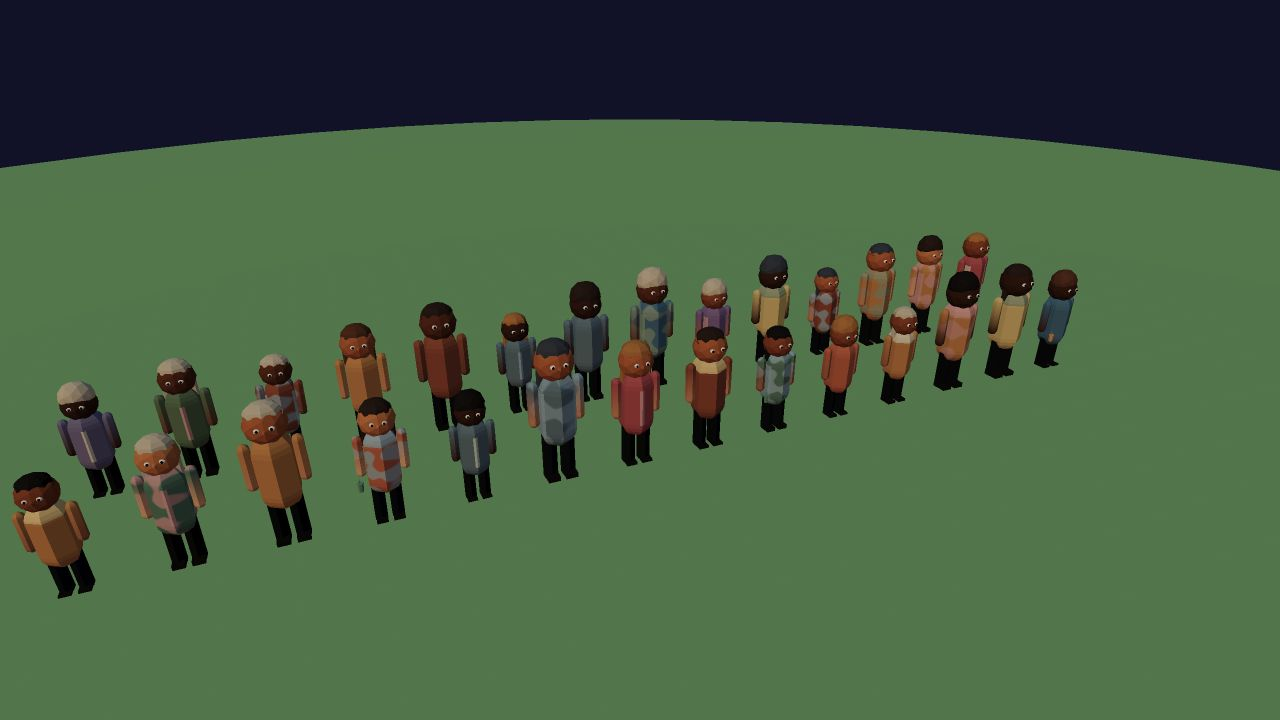
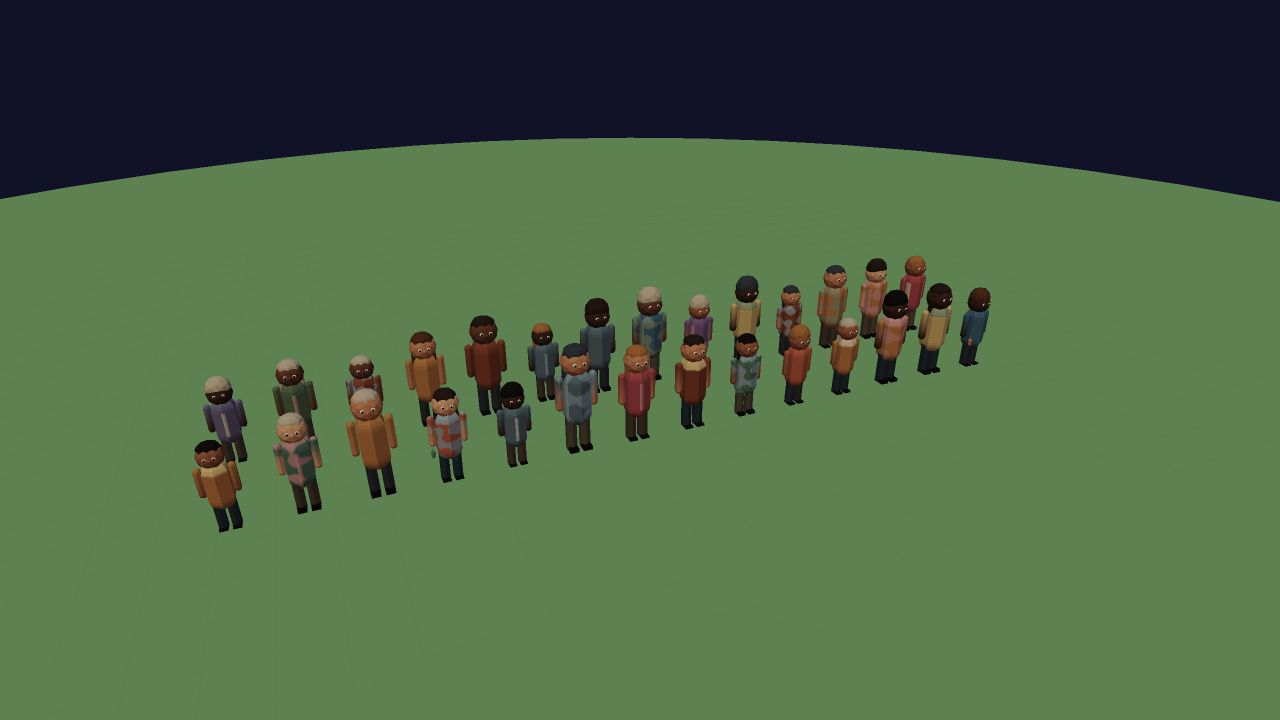
Finish crowd appearance validation and correct palette tinting

Changed region(s): [[0.0, 0.3056, 0.8438, 0.825], [0.0, 0.1528, 1.0, 0.275]]

diff --git a/src/crowd.js b/src/crowd.js
@@ -267,11 +267,11 @@ export class Crowd {
     const drinkGeo = mergeGeometrySet([cup, cupLid, straw]);
 
     // ---- Materials ----
-    const legsMat  = new THREE.MeshStandardMaterial({ color: 0x223a5c, roughness: 0.92, flatShading: true });
+    const legsMat  = new THREE.MeshStandardMaterial({ color: 0xffffff, roughness: 0.92, flatShading: true });
     const shoesMat = new THREE.MeshStandardMaterial({ color: 0x111111, roughness: 0.8,  flatShading: true });
     const bodyMat  = new THREE.MeshStandardMaterial({ roughness: 0.85, flatShading: true });
     const armsMat  = new THREE.MeshStandardMaterial({ roughness: 0.85, flatShading: true });
-    const headMat  = new THREE.MeshStandardMaterial({ color: 0xe6c098, roughness: 0.9,  flatShading: true });
+    const headMat  = new THREE.MeshStandardMaterial({ color: 0xffffff, roughness: 0.9,  flatShading: true });
     const featureMat = new THREE.MeshStandardMaterial({ color: 0x111111, roughness: 0.8 });
     const eyeMat = new THREE.MeshStandardMaterial({ color: 0xffffff, roughness: 0.9, flatShading: true, vertexColors: true });
     const cameraMat = new THREE.MeshStandardMaterial({ color: 0x17151c, roughness: 0.58, metalness: 0.2, flatShading: true });

diff --git a/sandbox.html b/sandbox.html
@@ -1682,9 +1682,14 @@ import {buildShrub} from './src/models/shrub.js';
                 entityRoot = lineup.group;
                 currentEntity = lineup;
                 updateFn = (dt) => {
+                    let poseChanged = false;
                     for (const npc of lineup.npcs) if (npc.cheerTimer > 0) {
                         npc.cheerTimer = Math.max(0, npc.cheerTimer - dt);
                         lineup._writeMatrices(npc);
+                        poseChanged = true;
+                    }
+                    if (poseChanged) for (const mesh of lineup.group.children) {
+                        if (mesh.isInstancedMesh) mesh.instanceMatrix.needsUpdate = true;
                     }
                 };
                 const cheerButton = document.createElement('button');

diff --git a/verification/crowd-appearance/check.html b/verification/crowd-appearance/check.html
@@ -21,6 +21,7 @@ try{
  }
  assert(pos,'could not find the deterministic beverage fixture position');
  const crowd=new Crowd({spawn(){}});
+ assert(crowd.headMesh.material.color.getHex()===0xffffff&&crowd.legsMesh.material.color.getHex()===0xffffff,'base materials tint the per-instance skin or pants palettes');
  const lineup=[];
  let seed=0x4a17c2;
  const next=()=>((seed=(Math.imul(seed,1664525)+1013904223)>>>0)/4294967296);

diff --git a/ROADMAP.md b/ROADMAP.md
@@ -824,7 +824,7 @@ infinite recursive tunnel, the classic "falling in" trip visual.
 - **Passenger quests.** A boarding rider sometimes has a small thought-bubble icon over their head showing where they want to go (tent, stage, food trucks, beach, hammocks, drum circle, etc. — all already in the registry). Layered indicators (compass strip, icon brightness, passenger humming, toast hints like "I can smell the food trucks!") help the player navigate. Within ~25m of the destination = thumbs-up animation + smile burst. Multi-passenger logistics emerge naturally at `MAX_PASSENGERS = 4`. Full design lives in [`.claude/passenger-quests-design.md`](.claude/passenger-quests-design.md) — destinations, signaling stack, indicator layers, toast bank, failure handling, build order, and open questions.
   - **"Gotta GO!" porta-potty emergency mission.** A special, urgent passenger-quest variant: a rider boards doing the pee-pee dance (visible squirm + a sweat-drop / "!!!" icon) and needs a ride to the **nearest porta-potty**, fast. A countdown adds light stakes — make it in time for a big relief + smile burst (and maybe a grateful honk), miss it and they bail out mortified (a flustered "fleeing" exit, small smile penalty, comedic toast). The porta-potty system already shipped (model + registry `porta_potty` entries + the door/occupied/stink machinery in [portaPotty.js](src/models/portaPotty.js) + [crowd.js](src/crowd.js)), so the destination, arrival detection, door-open-on-arrival, and "occupied, try the next one" logic are mostly reusable — this is largely the passenger-quest signaling stack plus a timer and the squirm animation. Ties the new sanitation prop into the mission loop.
 
-- **Food-court dining loop — NPCs buy food at a truck, then carry it to a table to eat.** The *sit* half shipped 2026-06-16: ambient crowd NPCs now claim a picnic-table seat, walk over, and sit facing the table for a spell (the `walking_to_table` → `table_seated` states in [crowd.js](src/crowd.js), mirroring the hammock + porta-potty interaction machinery Gary asked it to feel like). The deeper loop is the wish: an NPC with the urge first walks to a **food truck** (the `food_truck` / food-court attractors are already in the registry), queues at the service window, "buys" food (a brief dwell), then carries a **handheld food prop** (a tray/cone/cup attached to the NPC like the existing held items) to a free table seat and *eats* it there — a small repeated hand-to-mouth gesture with a few smile/"mmm" beats — before clearing out. It layers onto the seat-claim system already in place; the new pieces are a `seeking_food` → `at_truck` → `walking_to_table`(carrying) → `eating` state chain, a pooled held-food model + attach point, and the truck service-window dwell (reuse the porta-potty arrival/queue pattern). Gate on a food truck **and** a free table both in reach; one pooled held-food draw per diner. This is the food-court analogue of the porta-potty interaction depth.
+- **Food-court dining loop — NPCs buy food at a truck, then carry it to a table to eat.** The *sit* half shipped 2026-06-16: ambient crowd NPCs now claim a picnic-table seat, walk over, and sit facing the table for a spell (the `walking_to_table` → `table_seated` states in [crowd.js](src/crowd.js), mirroring the hammock + porta-potty interaction machinery Gary asked it to feel like). Ambient beverage cups shipped on 2026-10-14, but do not imply a purchase or meal. The deeper loop is the wish: an NPC with the urge first walks to a **food truck** (the `food_truck` / food-court attractors are already in the registry), queues at the service window, "buys" food (a brief dwell), then carries a **handheld food prop** (a tray/cone/cup attached to the NPC like the existing held items) to a free table seat and *eats* it there — a small repeated hand-to-mouth gesture with a few smile/"mmm" beats — before clearing out. It layers onto the seat-claim system already in place; the new pieces are a `seeking_food` → `at_truck` → `walking_to_table`(carrying) → `eating` state chain, a pooled held-food model + attach point, and the truck service-window dwell (reuse the porta-potty arrival/queue pattern). Gate on a food truck **and** a free table both in reach; one pooled held-food draw per diner. This is the food-court analogue of the porta-potty interaction depth.
 - **Vendor stand power-ups.** Extend `vendor_row` chunk themes with rare lemonade / pretzel / glow-stick stands. Drive by, get a 10s buff: faster bubble output, brighter eye glow, louder honk. Tiny new builders that reuse `foodTruck.js` patterns; existing food-truck attractor logic carries the trigger.
 
 - **Hittable physics props — knock the chairs over.** Right now camp chairs are *intangible*: they're registered with a `footprint: 0.5` only (so NPCs walk around them) but **no `collider`**, so Zerble drives straight through them ([chunks.js](src/chunks.js) chair `registry.add` calls; [campsite.js](src/models/campsite.js) `buildCampChair`). The wish is to clip a chair and have it fly off, bounce, and land cockeyed. The blocker is that the whole collision model is **2D circle-overlap + radial push** — colliders are flat `{position, radius, damage, kind}` discs with no rotation or mass ([main.js](src/main.js) `resolveCollision`; [registry.js](src/registry.js) `colliders()`), and Zerble itself is kinematic arcade motion, not a rigid body (`applyHit` just flips `speed` to -2.5 and nudges position). Three tiers, in increasing cost:

diff --git a/CHANGELOG.md b/CHANGELOG.md
@@ -5,11 +5,13 @@ All notable changes to Zerble at the Festival. Newest at top. Following [Keep a 
 ## 2026-10-14
 
 ### Added
+- **Festival crowds have more varied faces, hair and outfits.** Six independently selected skin tones, three hairstyle silhouettes, six hair colors, twelve shirt colors and four clothing treatments retain the stylized instanced crowd. A seeded 7% carry a cup with a lid and straw; cups follow arm and seated poses and hide during photography. A muted lineup preview and pooling checks cover the additions. [Screenshots and verification](verification/crowd-appearance/README.md).
 - **Bands have instrument-specific silhouettes and playing poses.** Pooled musicians now include detailed guitars, basses, drum kits, marching snares and horns, with articulated strumming, drumming and gestures. Main, side and tent stages gain monitors, amps, cases, cables, rugs, risers, steps and bunting; two existing beams wash the performers while one sweeps the audience. The sandbox now updates the shared context-light pool, matching the game at night.
 - **Stage arrangements develop recognizable motifs.** Jam and brass phrases retain a hook with changing answers, breathing space and transition fills; dance drops use actual sixteenth-note arpeggios, and world percussion uses the full triplet clave grid. Repeated sections vary their phrasing and intensity. [Silent audio renders, model checks and screenshots](verification/festival-performance/README.md).
 - **The Nut Wagon has its own reggae tune.** A 74–80 BPM one-drop groove combines offbeat triads, a syncopated bass hook, closed hats, rim clicks and a melodica response with tempo-linked echo. Intro, verse, chorus, breakdown and outro share a harmonic progression. The sandbox includes a dedicated music button, and a silent offline render checks output and cleanup.
 
 ### Fixed
+- **The crowd lineup uploads animated poses, and appearance palettes keep their intended colors.** Cheer-preview matrix changes now reach the GPU; white base materials prevent the old head and trouser colors from tinting the new per-person palettes.
 - **Roads stay outside stage decks and dancefloors.** Placement now checks the full audience rectangle and deck against road segments, relocates the complete stage composition to a clear spot, and rejects unsafe light-pole endpoints. Both seed 932033385 reports retain their stages with clear audience areas; 288 stages across five seeds pass regression checks. Seeded layouts can change where stages previously overlapped roads.
 - **Brass marchers keep distinct seeded phases.** The post-commit adversarial review caught identical default seeds for both trumpeters; game and sandbox formations now pass stable per-member seeds, with a regression check for distinct and reproducible phases.
 - **Road shadows survive the distant-road underlay.** The detailed road now writes depth, preventing the unlit layer beneath it from drawing over the lit surface and its shadows. A controlled production-material render reproduces 767 overwritten pixels before the fix and zero afterward.

diff --git a/verification/crowd-appearance/README.md b/verification/crowd-appearance/README.md
@@ -1,0 +1,22 @@
+# Crowd appearance verification, 2026-10-14
+
+The ordinary crowd now selects skin tone, hair, clothing and an optional beverage from an independent seeded appearance stream. Gameplay RNG consumption is retained. Six skin tones, three hairstyle silhouettes, six hair colors, twelve shirt colors and four color treatments expand the existing stylized model. Cups occur at 7% probability (6.6% in the 12,000-position test sample).
+
+## Evidence
+
+- `npm run check` passed, including the appearance and photographer regressions, importmaps and worldgen checks.
+- [Browser lifecycle results](results.json) use the production Crowd constructor: 28 people, three cups, slot reclamation, seated/cheering attachments and camera-pose hiding.
+- The browser harness also asserts white base materials, so the skin and pants palettes are not multiplied by old fixed colors.
+- Low and mid sandbox materials compiled without warnings or errors. The muted main game started through its title button on both tiers at seed 932033385, without browser warnings or errors. These are startup checks, not extended playtests.
+- The lineup submits 13 draws and 30,944 triangles including its ground. Hair and cups add four instanced batches and no shadow casters. Compact ordinary and hairstyle slots avoid submitting the full pool for a small crowd. This is an isolated fixture, not a full-game performance benchmark.
+- The lineup cheer preview now uploads changed instance matrices, including the final return to the resting pose.
+
+## Reproduce
+
+Open `sandbox.html?entity=crowd_lineup&perf=mid&mute=1` or use `perf=low`. Choose Noon or Midnight; use the cheer button to inspect cup attachment. Open `verification/crowd-appearance/check.html?mute=1` for the production geometry and lifecycle assertions.
+
+![Crowd lineup at noon](noon.png)
+
+![Low-tier lineup](low-cheer.png)
+
+The cups are ambient props. Food-truck purchasing and dining remain a separate roadmap behavior.
